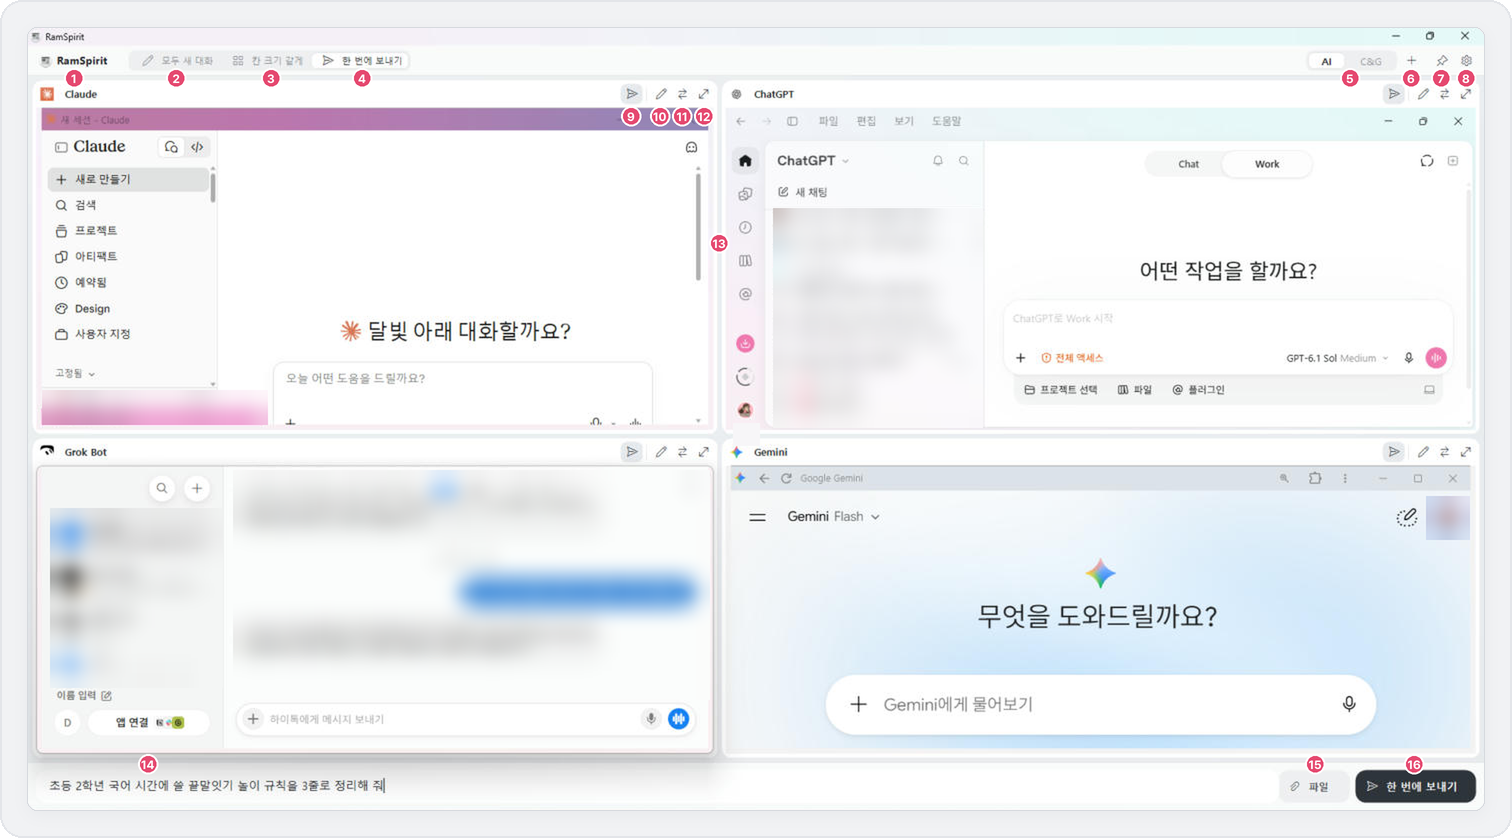
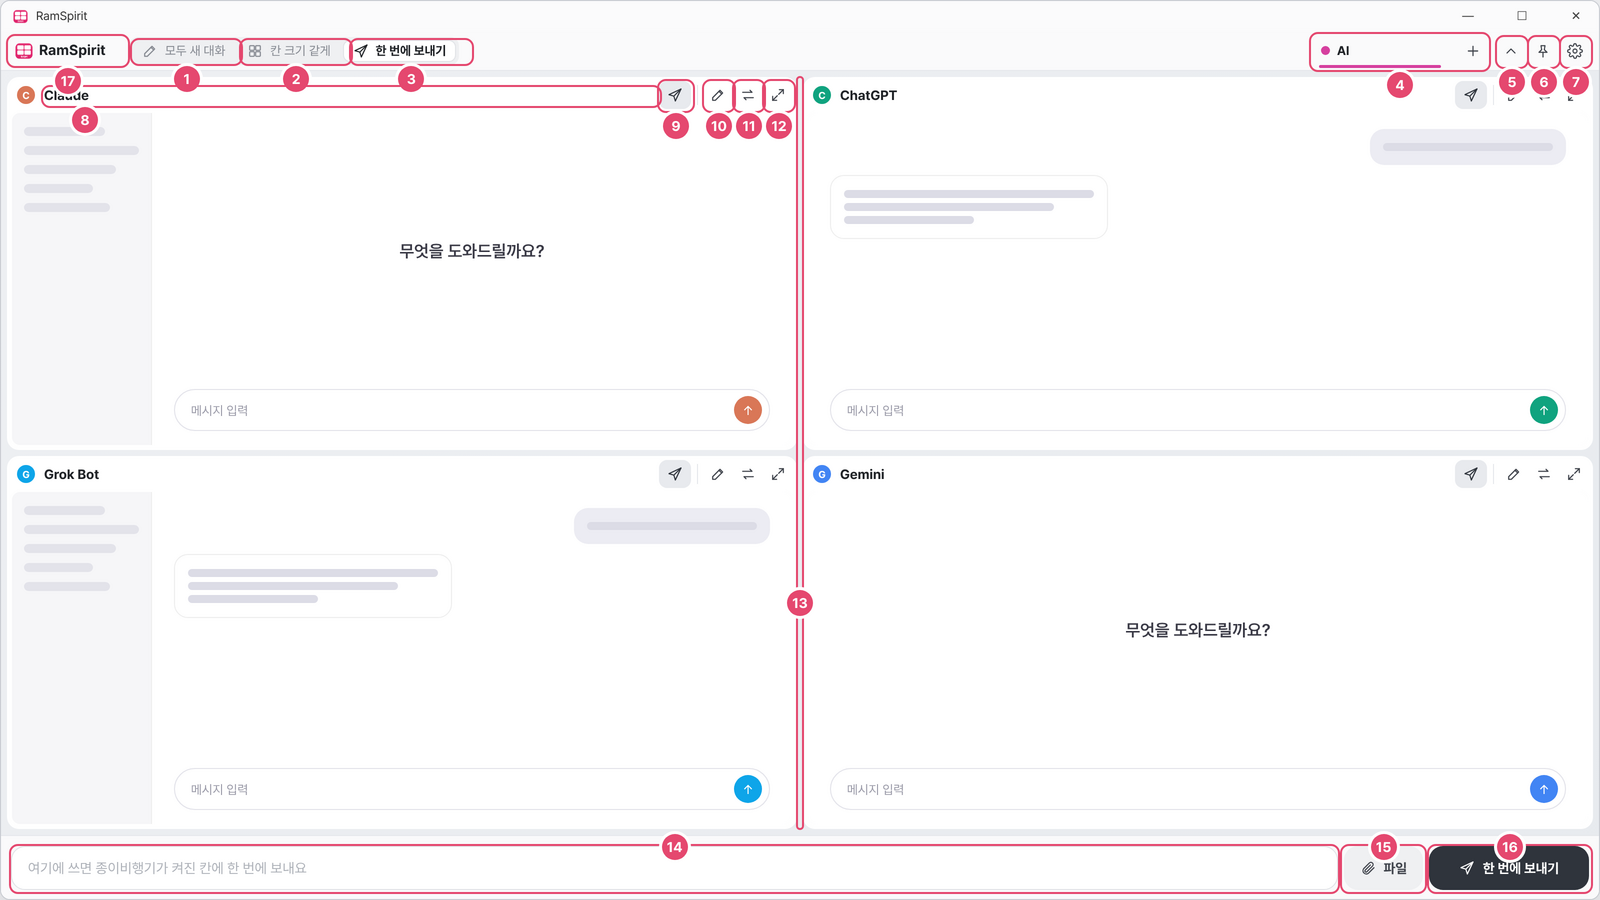
README: 탭(북마크·위쪽 수정·삭제·보이는 것), 막대 숨기기, 업데이트 팝업 반영
Claude-Session: https://claude.ai/code/session_013SpSRxSx9Bpp9QkCXQH5Kb

diff --git a/README.md b/README.md
@@ -72,9 +72,15 @@
 
 ### 탭
 
-「AI」 탭, 「이미지」 탭처럼 칸 구성을 여러 개 두고 바꿔 가며 쓸 수 있어요. 탭을 끌면 순서가 바뀌고, 오른쪽 클릭하면 이름 바꾸기·칸 고르기·지우기 메뉴가 나와요.
+「AI」 탭, 「이미지」 탭처럼 칸 구성을 여러 개 두고 바꿔 가며 쓸 수 있어요. 탭을 끌면 순서가 바뀌고, 탭에 마우스를 잠깐 올려 두면 **위쪽에 수정·삭제 단추**가 떠요.
 
-<img src="docs/img/tab-menu.png" alt="탭 오른쪽 클릭 메뉴" width="45%">
+<img src="docs/img/tab-hover.png" alt="탭 위에 뜨는 수정·삭제 단추" width="100%">
+
+수정을 누르면 탭 이름 · 색깔 · **탭에 보이는 것**(이름 / 로고 + 칸 배치 / 로고 + 이름 / 로고만)을 고르고 미리보기로 바로 확인해요.
+
+<img src="docs/img/tab-looks.png" alt="탭에 보이는 것 4가지" width="100%">
+
+<img src="docs/img/tab-edit.png" alt="탭 수정 창" width="40%">
 
 ### 앱 아이콘 고르기
 
@@ -96,14 +102,15 @@
 
 | # | 이름 | 하는 일 | # | 이름 | 하는 일 |
 |---|---|---|---|---|---|
-| 1 | RamSpirit | 크게 보기에서 칸 나누기로 돌아가기 | 9 | 종이비행기 | 이 칸에도 보낼지 켬/끔 |
-| 2 | 모두 새 대화 | 보이는 칸을 모두 새 대화로 | 10 | 연필 | 이 칸만 새 대화 |
-| 3 | 칸 크기 같게 | 칸 크기를 똑같이 되돌리기 | 11 | 화살표 두 개 | 이 칸의 앱 바꾸기 |
-| 4 | 한 번에 보내기 | 아래 입력창 열기·닫기 | 12 | 네 모서리 화살표 | 이 칸만 크게 보기 |
-| 5 | 탭 | 칸 구성 바꾸기 · 끌어서 순서 바꾸기 | 13 | 칸 사이 선 | 끌어서 칸 크기 조절 |
-| 6 | ＋ | 새 탭 만들기 | 14 | 입력창 | 여러 칸에 보낼 글 쓰기 |
-| 7 | 핀 | 항상 위에 두기 | 15 | 파일 | 함께 보낼 파일 넣기 |
-| 8 | 톱니 | 설정 | 16 | 한 번에 보내기 | 켜 둔 칸에 보내기 |
+| 1 | 모두 새 대화 | 보이는 칸을 모두 새 대화로 | 10 | 연필 | 이 칸만 새 대화 |
+| 2 | 칸 크기 같게 | 칸 크기를 똑같이 | 11 | 화살표 두 개 | 이 칸의 앱 바꾸기 |
+| 3 | 한 번에 보내기 | 아래 입력창 열기·닫기 | 12 | 네 모서리 화살표 | 이 칸만 크게 보기 |
+| 4 | 탭 · ＋ | 탭 바꾸기 · 새 탭 | 13 | 칸 사이 선 | 끌어서 칸 크기 조절 |
+| 5 | 위쪽 화살표 | 위쪽 막대 숨기기 (맨 위 가는 줄을 누르면 다시) | 14 | 입력창 | 여러 칸에 보낼 글 쓰기 |
+| 6 | 핀 | 항상 위에 두기 | 15 | 파일 | 함께 보낼 파일 넣기 |
+| 7 | 톱니 | 설정 | 16 | 한 번에 보내기 | 켜 둔 칸에 보내기 |
+| 8 | 칸 이름 | 끌어서 자리 바꾸기 | 17 | RamSpirit | 칸 나누기 화면으로 |
+| 9 | 종이비행기 | 이 칸에도 보낼지 켬/끔 | | | |
 
 > [!TIP]
 > 아이콘에 마우스를 올리면 하는 일이 위쪽에 짧게 나와요.
@@ -153,9 +160,11 @@
 
 ## 업데이트
 
-새 버전이 나오면 RamSpirit를 켠 뒤 알아서 받아 둬요. 다 받으면 위쪽에 **「새 버전 준비됨 · 다시 시작」** 버튼이 나타나고, 누르면 다시 켜지면서 적용돼요.
+켜 두는 동안 10분마다 새 버전을 확인해서 알아서 받아 둬요. 다 받으면 작은 창이 떠요. **「지금 적용」**을 누르면 칸 안 앱은 그대로 두고 다시 켜지면서 적용되고, **「나중에」**를 누르면 컴퓨터를 5분쯤 안 쓸 때 알아서 적용돼요.
 
-직접 확인하려면 작업 표시줄의 RamSpirit 아이콘을 오른쪽 클릭 → **업데이트 확인**, 또는 설정 → 정보 → **업데이트 확인**을 누르세요.
+<img src="docs/img/update-popup.png" alt="새 버전 알림 창" width="100%">
+
+직접 확인하려면 알림 영역(작업 표시줄 오른쪽 아래)의 RamSpirit 아이콘을 오른쪽 클릭 → **업데이트 확인**, 또는 설정 → 정보 → **업데이트 확인**을 누르세요.
 
 ---
 
